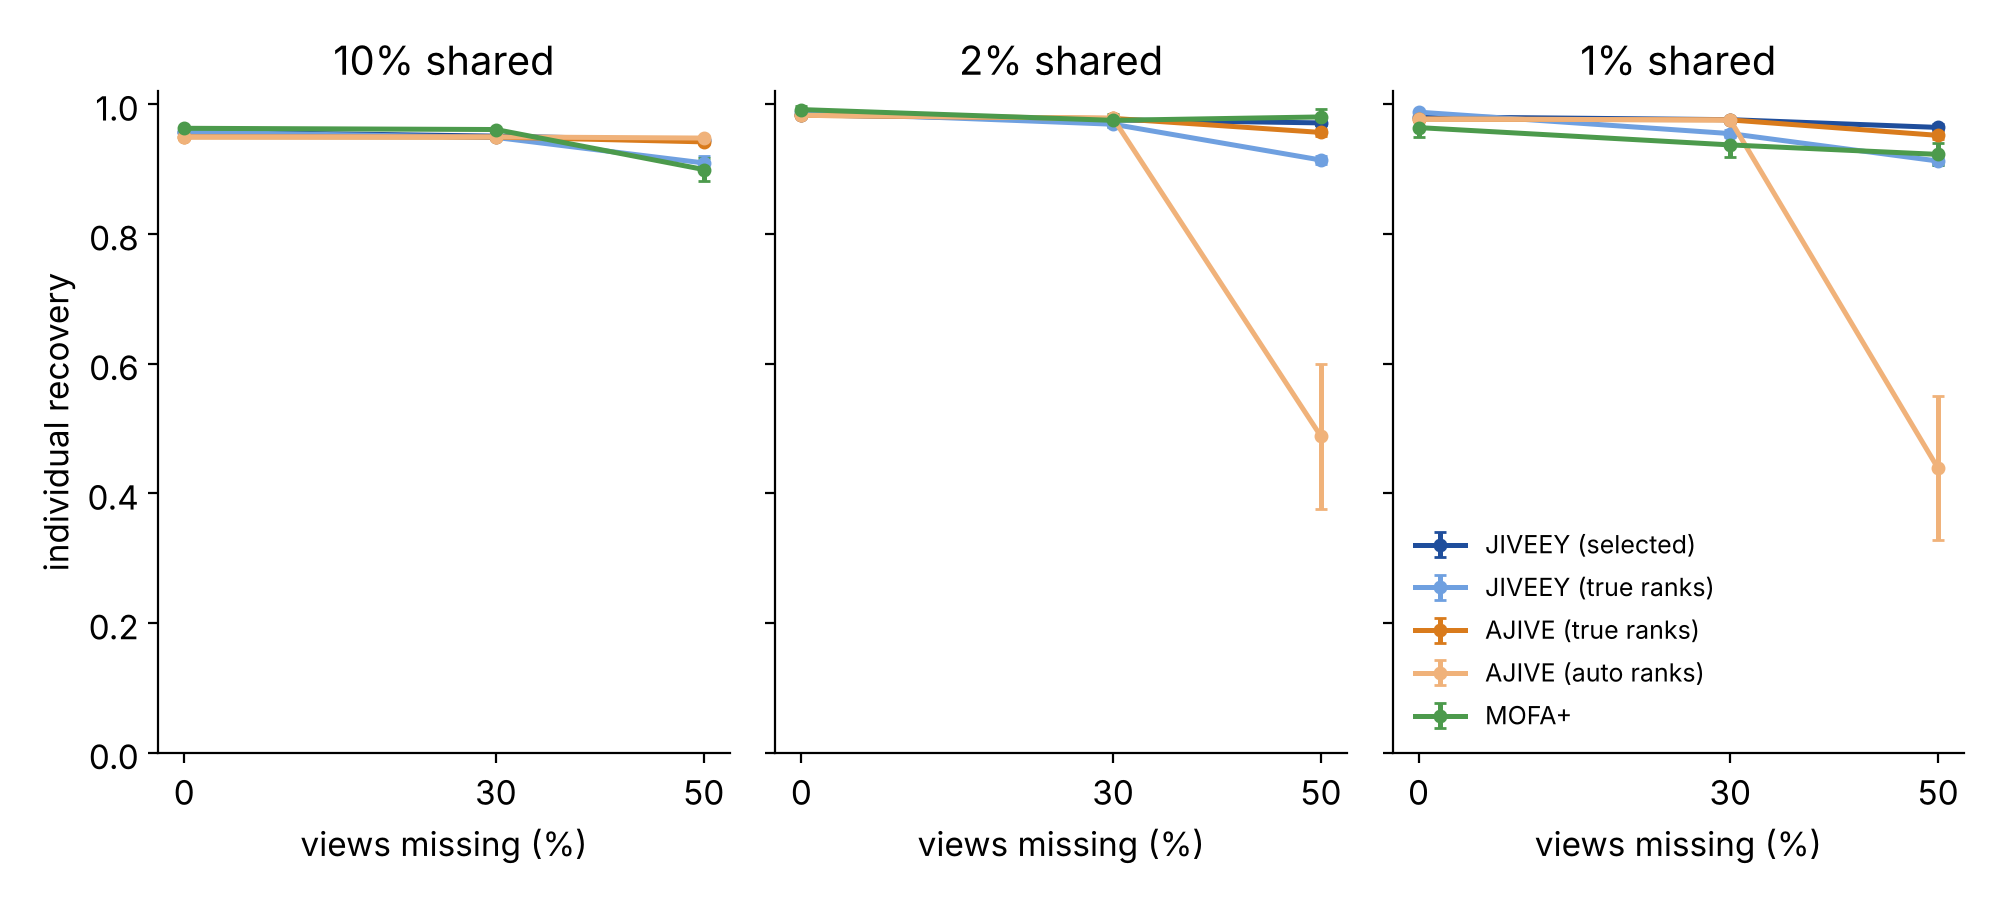
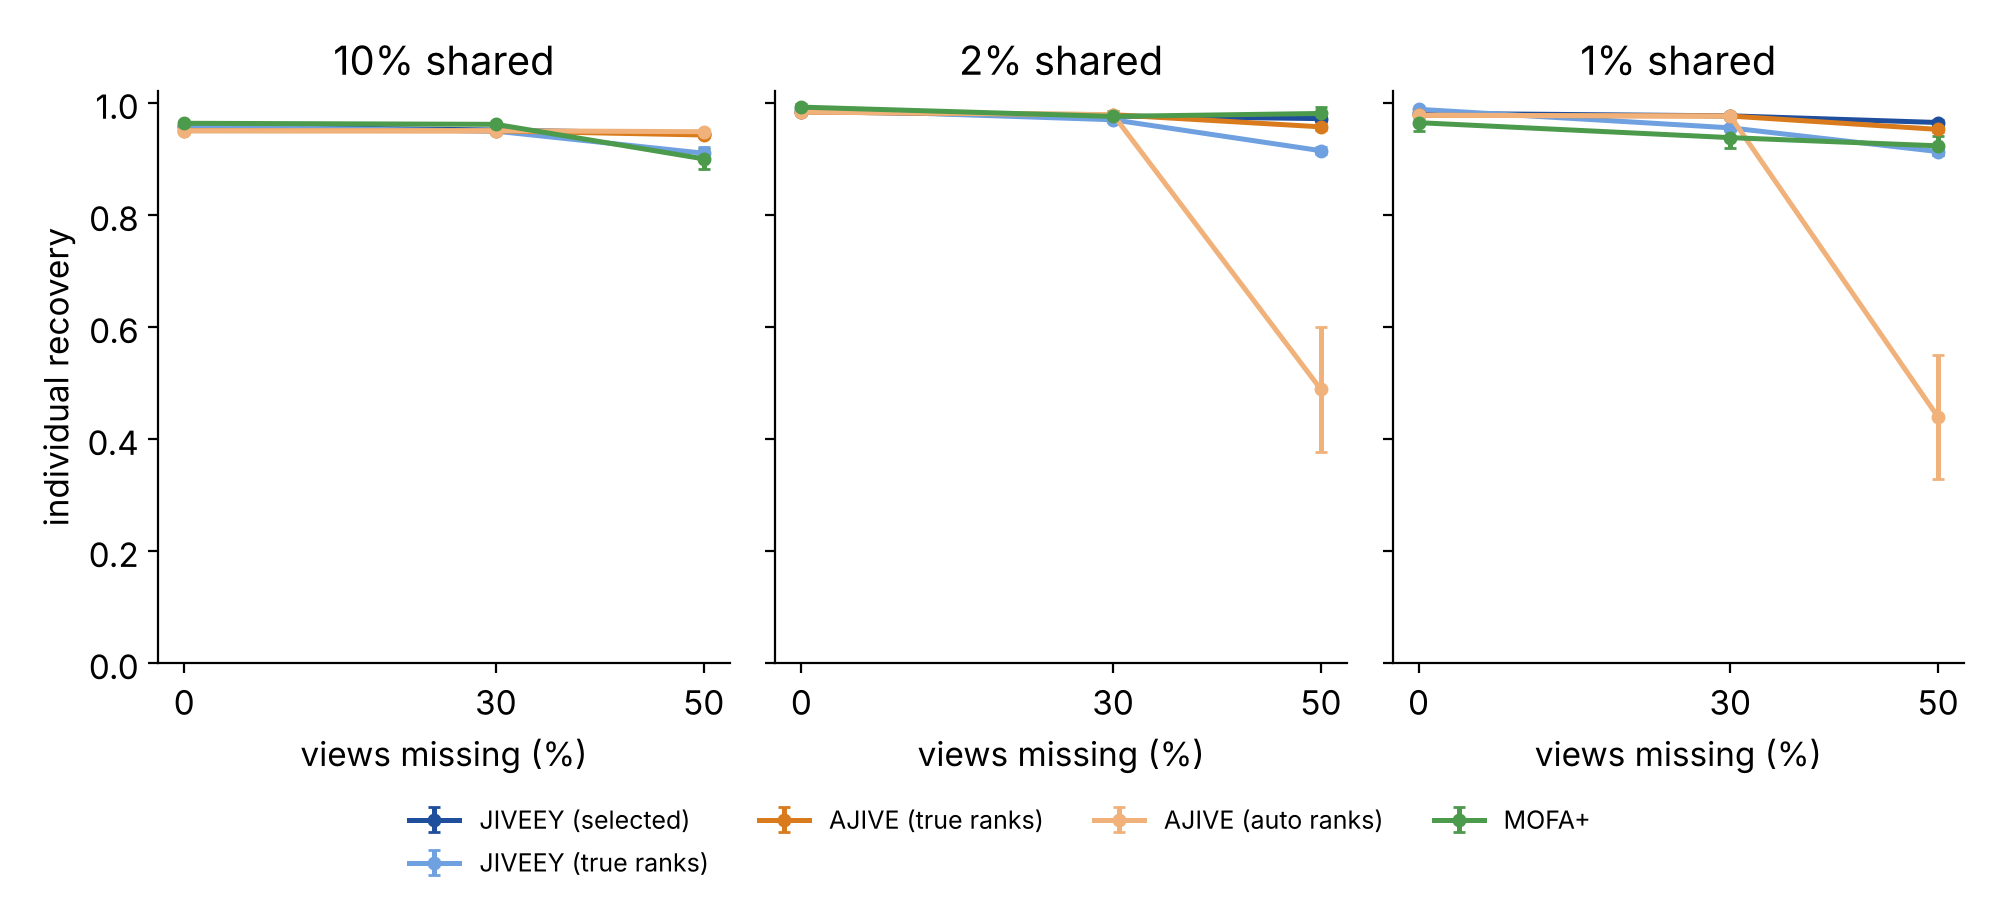
JIVEEY paper: E3 and E4 results, figures
Claude-Session: https://claude.ai/code/session_014BvubMb9w7QTsBR2FXesGp

diff --git a/benchmarks/jiveey_paper/plot.py b/benchmarks/jiveey_paper/plot.py
@@ -68,6 +68,25 @@ def e2() -> None:
     plt.close(fig)
 
 
+def e3() -> None:
+    """Cross-fitted joint, individual and noise shares of each CLL view."""
+    d = json.loads((HERE / "output" / "e3.json").read_text())
+    shares = np.array(d["jiveey_shares_cross_fitted"])  # views x (joint, individual, noise)
+    fig, ax = plt.subplots(figsize=(10, 4.5))
+    y = np.arange(len(d["names"]))[::-1]
+    left = np.zeros(len(y))
+    for k, (label, color) in enumerate((("joint", "#1f4e9c"), ("individual", "#d97b1c"), ("noise", "#d0d0d0"))):
+        ax.barh(y, np.clip(shares[:, k], 0, None), left=left, color=color, label=label)
+        left += np.clip(shares[:, k], 0, None)
+    ax.set_yticks(y, d["names"])
+    ax.set_xlabel("held-out share of the view's variance")
+    ax.legend(frameon=False, ncol=3, loc="lower center", bbox_to_anchor=(0.5, 1.0))
+    fig.tight_layout()
+    fig.savefig(OUT / "e3_cll_shares.png", dpi=200)
+    plt.close(fig)
+
+
 if __name__ == "__main__":
     e1()
+    e3()
     e2() if (HERE / "output" / "e2.json").exists() else None
